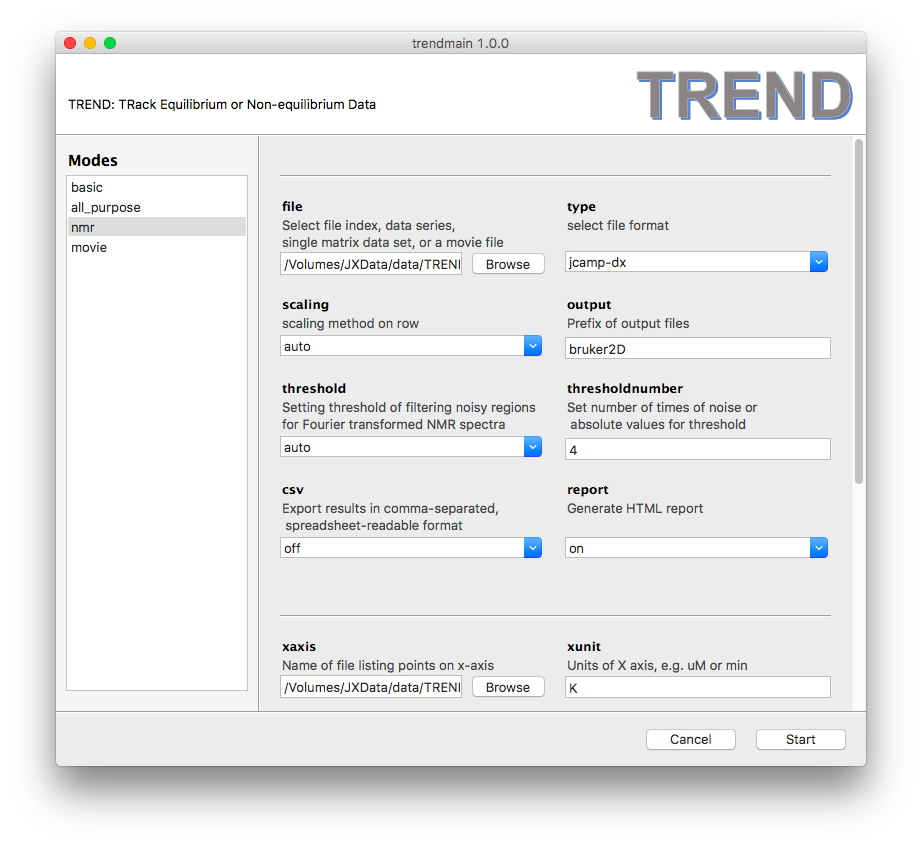
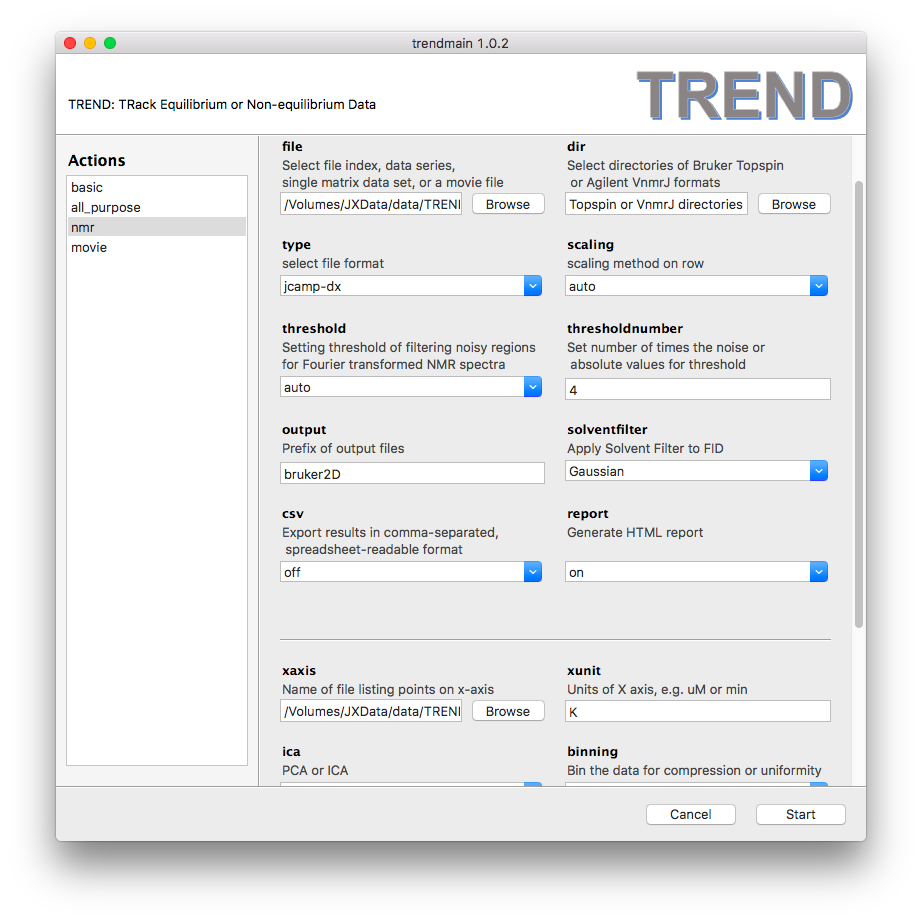
trendmain nmr panel updated, dead links of Start using TREDN page fixed

diff --git a/README.md b/README.md
@@ -1,9 +1,9 @@
 ## TREND: TRack Equilibrium or Non-equilibrium shifts in Data
 ### Resolve Trends such as Binding Isotherms and Time Courses Directly from Spectra, Imaging, or Lists
-Version 1.0
+Version 1.0.2
 For further information, see 
 [biochem.missouri.edu/trend](http://biochem.missouri.edu/trend)  
-The new release is available 2016-11-21   
+The new release is available 2016-11-22   
 ### Introduction:
 TREND is a software package that determines the main trend(s) of change across a series of 2D
 digital measurements, such as imaging and NMR spectra. TREND works by applying principal component

diff --git a/tutorial/tutorial_agilent.md b/tutorial/tutorial_agilent.md
@@ -36,7 +36,7 @@ and read `x-axis.conc` file using `xaxis` text box. For the FID data,
 Here the default `Gaussian` is used.  
 - Press the 'Start' button, the html report will be generated if 
 `report` option is turned on.  
-<img src="../png/tutorial_agilent/report.png" width="600px">  
+<img src="../png/tutorial_agilent/report.png" width="650px">  
 
 
 ### 3. Reconstruct Agilent FID using only the first component  

diff --git a/doc/start.md b/doc/start.md
@@ -1,5 +1,5 @@
 ## Start using TREND
-* [Installation Instructions](doc/install.md)
-* [A simple example](doc/intro.md)
+* [Installation Instructions](./install.md)
+* [A simple example](./intro.md)
 * [Manual](../manual/README.md)
 * [Tutorials](../tutorial/README.md)

diff --git a/doc/new_features.md b/doc/new_features.md
@@ -1,4 +1,4 @@
-## Coming soon (2016-11-22)
+## Released (2016-11-22)
 
 ### `trendmaingui` and `trendmain`  
 - Supports Bruker Topspin FID/spectra, Agilent(Varian) FID/Spectra
